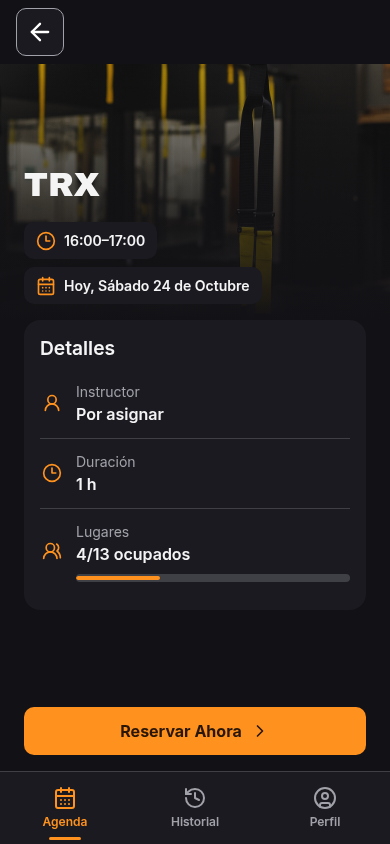
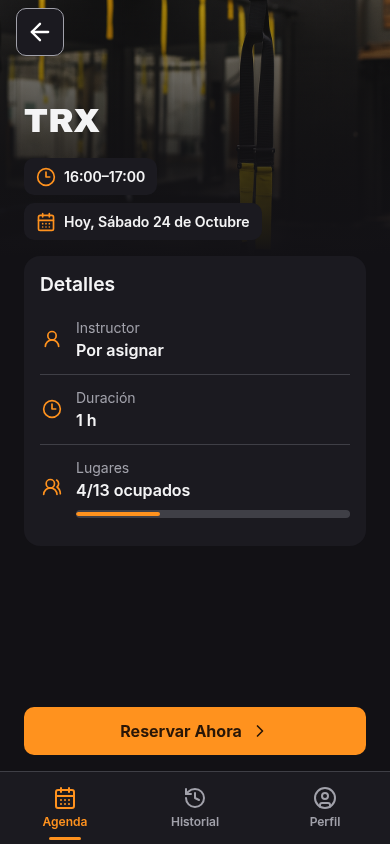
Restore floating class back button over the photo

diff --git a/styles/cempasuchil.css b/styles/cempasuchil.css
@@ -14,8 +14,8 @@ body[data-app='member'] .app-bottom-nav .nav-button.active-nav::before { top: au
 .class-detail-hero { position: relative; isolation: isolate; display: flex; align-items: flex-end; min-height: 256px; flex: 1; }
 .class-detail-hero::after { content: ''; position: absolute; inset: 0; z-index: -1; background: linear-gradient(to bottom, var(--color-photo-overlay), var(--color-paper)); pointer-events: none; }
 .class-detail-hero-image { position: absolute; inset: 0; z-index: -2; width: 100%; height: 100%; object-fit: cover; object-position: center 54%; outline: none; }
-.class-detail-back { position: fixed; top: max(var(--space-sm), var(--safe-top)); left: max(var(--space-md), calc((100% - 760px) / 2 + var(--space-md))); z-index: 40; display: inline-flex; align-items: center; justify-content: center; width: 48px; height: 48px; border: 1px solid var(--color-muted); border-radius: var(--radius-input); background: var(--color-paper-2); color: var(--color-ink); }
-.class-detail-hero-content { width: 100%; padding: var(--space-2xl) var(--space-lg) var(--space-md); }
+.class-detail-back { display: inline-flex; align-items: center; justify-content: center; width: 48px; height: 48px; border: 1px solid var(--color-muted); border-radius: var(--radius-input); background: var(--color-paper-2); color: var(--color-ink); }
+.class-detail-hero-content { width: 100%; padding: calc(48px + var(--space-xs) + var(--space-lg)) var(--space-lg) var(--space-md); }
 .class-detail-title { font-family: var(--font-display); font-size: 2.074rem; font-weight: 400; line-height: 1.2; letter-spacing: 0; }
 .class-detail-pills { display: flex; flex-direction: column; align-items: flex-start; gap: var(--space-xs); margin-top: var(--space-md); }
 .class-detail-pill { display: inline-flex; align-items: center; gap: var(--space-xs); max-width: 100%; padding: var(--space-xs) var(--space-sm); background: var(--color-paper-2); color: var(--color-ink); border-radius: var(--radius-input); font-size: .875rem; font-weight: 600; }
@@ -39,12 +39,12 @@ body[data-app='member'] .app-bottom-nav .nav-button.active-nav::before { top: au
 @media (max-height: 700px) { .class-detail-hero { min-height: 224px; } .class-detail-row { padding-block: var(--space-xs); } }
 @media (prefers-reduced-motion: reduce) { .class-detail-booking-button { transition: none; } }
 
-/* Keep chrome and feedback outside the scroll pane so neither covers class information. */
+/* Float only the back control over the photo; feedback and booking keep their own rows. */
 body[data-app='member'] #main-content.has-class-details { padding-bottom: 0; }
-.class-detail-screen { display: grid; grid-template-rows: auto minmax(0, 1fr) auto auto; height: 100%; min-height: 0; }
-.class-detail-toolbar { padding: var(--space-xs) var(--space-md); background: var(--color-paper); color: var(--color-ink); }
-.class-detail-back { position: static; }
-.class-detail-content { min-height: 0; overflow-y: auto; scroll-padding-block: var(--space-md); padding-bottom: var(--space-md); }
+.class-detail-screen { position: relative; display: grid; grid-template-rows: minmax(0, 1fr) auto auto; height: 100%; min-height: 0; }
+.class-detail-toolbar { position: absolute; top: var(--space-xs); left: var(--space-md); z-index: 40; pointer-events: none; }
+.class-detail-back { pointer-events: auto; }
+.class-detail-content { min-height: 0; overflow-y: auto; scroll-padding-top: calc(48px + var(--space-xs) + var(--space-lg)); scroll-padding-bottom: var(--space-md); padding-bottom: var(--space-md); }
 .class-detail-hero { min-height: 256px; }
 .class-detail-cta { position: static; margin-top: 0; }
 .class-detail-feedback #toast { position: static; transform: none; width: auto; max-width: none; margin: 0 var(--space-lg); }

diff --git a/index.html b/index.html
@@ -40,7 +40,7 @@
     <link rel="apple-touch-icon" href="./images/icon-192x192.png">
 
     <link rel="stylesheet" href="./styles/app.css?v=20261024-shell">
-    <link rel="stylesheet" href="./styles/cempasuchil.css?v=20261024-shell">
+    <link rel="stylesheet" href="./styles/cempasuchil.css?v=20261024-back">
     <script src="./scripts/app-accessibility.js" defer></script>
 
   </head>

diff --git a/docs/redesign/pwa-shell-fix.md b/docs/redesign/pwa-shell-fix.md
@@ -45,3 +45,15 @@ verification. Safari's actual rubber-band compositor is not reproduced by these
 assertions. Recheck launch and downward dragging on the reported iPhone after
 loading the update. Finish drafts, fully quit and reopen the PWA; there is no need
 to reinstall or clear site data.
+
+The follow-up restores the floating class back button over the photo, removing
+its separate header strip. It stays anchored to the class screen while details
+scroll, below the top safe area. Hero text reserves space beneath its 48px touch
+target; feedback and booking actions retain their own rows. The stylesheet URL
+is updated so a fresh load retrieves this change.
+
+The existing workflow, 45 booking-state and shell checks pass again. Additional
+Chromium checks at 390×844, 320×568 and 844×390 with simulated 47px/34px safe areas
+confirm the photo starts at the content edge, the back button stays pinned and
+tappable during scrolling, focus works, the initial title clears the button,
+and navigation still reaches the viewport bottom. This is not device testing.
